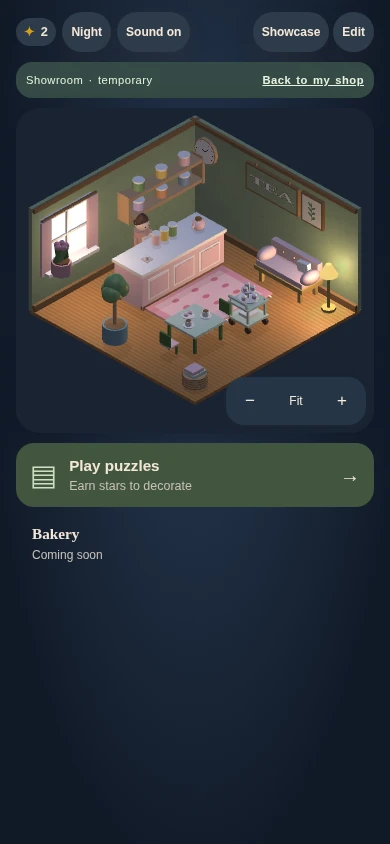
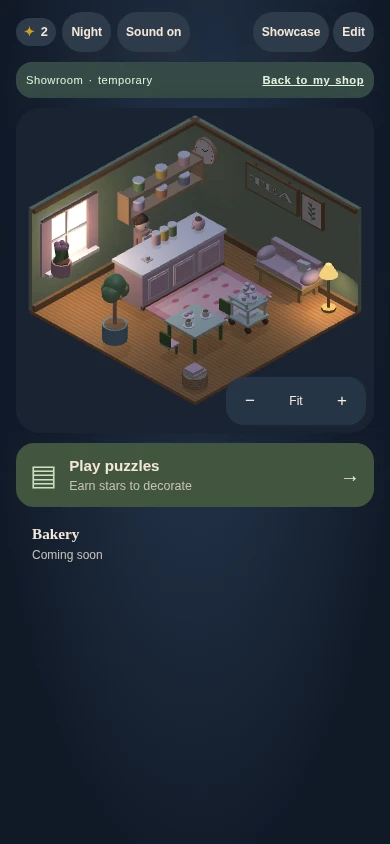
Add cached local night shadows that follow both movable lamps

Changed region(s): [[0.2769, 0.1232, 0.9231, 0.4621], [0.2154, 0.2773, 0.2462, 0.3081]]

diff --git a/src/shop/diorama.ts b/src/shop/diorama.ts
@@ -4,6 +4,7 @@ import { Camera } from "@babylonjs/core/Cameras/camera";
 import { ArcRotateCamera } from "@babylonjs/core/Cameras/arcRotateCamera";
 import { HemisphericLight } from "@babylonjs/core/Lights/hemisphericLight";
 import { DirectionalLight } from "@babylonjs/core/Lights/directionalLight";
+import { SpotLight } from "@babylonjs/core/Lights/spotLight";
 import { PointLight } from "@babylonjs/core/Lights/pointLight";
 import { ShadowGenerator } from "@babylonjs/core/Lights/Shadows/shadowGenerator";
 import { Color3, Color4 } from "@babylonjs/core/Maths/math.color";
@@ -54,8 +55,11 @@ export class Diorama {
   private readonly camera: ArcRotateCamera;
   private readonly hemi: HemisphericLight;
   private readonly sun: DirectionalLight;
-  private readonly lampLights: Record<"lamp" | "lamp:2", PointLight>;
+  private readonly lampLights: Record<"lamp" | "lamp:2", SpotLight>;
   private readonly shadows: ShadowGenerator;
+  private readonly lampShadows: Record<"lamp" | "lamp:2", ShadowGenerator>;
+  private lampShadowsDirty = true;
+  private readonly shadowPreviewKeys = new WeakMap<TransformNode, string>();
   private readonly visuals: ShopVisuals;
   private readonly ring: ReturnType<typeof selectionRing>;
   private readonly sparkTex;
@@ -124,13 +128,27 @@ export class Diorama {
     this.sun.diffuse = new Color3(1, 0.93, 0.78);
 
     this.lampLights = {
-      lamp: new PointLight("lamp-light", Vector3.Zero(), this.scene),
-      "lamp:2": new PointLight("lamp:2-light", Vector3.Zero(), this.scene),
+      lamp: new SpotLight("lamp-light", Vector3.Zero(), Vector3.Down(), Math.PI * 0.8, 1, this.scene),
+      "lamp:2": new SpotLight("lamp:2-light", Vector3.Zero(), Vector3.Down(), Math.PI * 0.8, 1, this.scene),
     };
     for (const light of Object.values(this.lampLights)) {
       light.intensity = 0;
       light.diffuse = new Color3(1, 0.8, 0.55);
-      light.range = 7;
+      light.range = 4;
+      light.shadowMinZ = 0.08;
+      light.shadowMaxZ = 4;
+    }
+    this.lampShadows = {
+      lamp: new ShadowGenerator(512, this.lampLights.lamp),
+      "lamp:2": new ShadowGenerator(512, this.lampLights["lamp:2"]),
+    };
+    for (const shadow of Object.values(this.lampShadows)) {
+      shadow.usePercentageCloserFiltering = true;
+      shadow.filteringQuality = ShadowGenerator.QUALITY_LOW;
+      shadow.setDarkness(0.45);
+      shadow.bias = 0.001;
+      shadow.normalBias = 0.02;
+      shadow.getShadowMap()!.refreshRate = 0; // Cache until a lamp or caster moves.
     }
     this.windowLight = new PointLight("window-light", new Vector3(4.85, 2, 0.65), this.scene);
     this.windowLight.diffuse = Color3.FromHexString("#ffce8c");
@@ -174,6 +192,7 @@ export class Diorama {
 
   setNight(night: boolean): void {
     this.night = night;
+    this.lampShadowsDirty = true;
     this.scene.clearColor = Color4.FromColor3(Color3.FromHexString(night ? "#192333" : C.cream), 1);
     this.scene.ambientColor = night ? new Color3(0.28, 0.33, 0.45) : new Color3(0.55, 0.48, 0.42);
     const sky = this.scene.getMeshByName("sky")?.material;
@@ -256,6 +275,7 @@ export class Diorama {
 
   sync(shop: ShopState, opts: { animate?: UpgradeId; quiet?: boolean } = {}): void {
     this.shop = shop;
+    this.lampShadowsDirty = true;
     applyRoomStyle(this.visuals, shop, this.scene);
     const unique: UpgradeId[] = [];
     for (const id of shop.owned) {
@@ -335,7 +355,13 @@ export class Diorama {
     const casts = !id || (UPGRADE_BY_ID[id].surface === "floor" && root.position.y < 0.1);
     collectMeshes(root).forEach((mesh) => {
       if (mesh.metadata?.steam) return;
-      if (casts) this.shadows.addShadowCaster(mesh);
+      if (casts) {
+        this.shadows.addShadowCaster(mesh);
+        // The light sits inside the shade: lamp meshes must not block their own light.
+        if (!id || kindOf(id) !== "lamp") {
+          for (const shadow of Object.values(this.lampShadows)) shadow.addShadowCaster(mesh);
+        }
+      }
       mesh.receiveShadows = true;
     });
   }
@@ -383,12 +409,20 @@ export class Diorama {
       const lamp = this.visuals.items[id];
       if (!lamp || !isPlaced(this.shop, id)) {
         light.intensity = 0;
+        light.shadowEnabled = false;
         continue;
       }
       const bulb = lamp.getChildMeshes().find(mesh => mesh.name === "lamp-bulb");
-      light.position.copyFrom(bulb ? bulb.getAbsolutePosition() : lamp.position);
+      lamp.computeWorldMatrix(true);
+      bulb?.computeWorldMatrix(true);
+      const position = bulb ? bulb.getAbsolutePosition() : lamp.position;
+      const moved = !light.position.equalsWithEpsilon(position, 0.0001);
+      light.position.copyFrom(position);
+      light.shadowEnabled = this.night;
+      if (this.night && (moved || this.lampShadowsDirty)) this.lampShadows[id].getShadowMap()!.resetRefreshCounter();
       light.intensity = (this.night ? 1.0 : 0.28) + this.warm * 0.18;
     }
+    this.lampShadowsDirty = false;
   }
 
   private updateRing(): void {
@@ -424,6 +458,7 @@ export class Diorama {
 
   private tick(): void {
     const dt = Math.min(0.1, this.engine.getDeltaTime() / 1000);
+    if (this.tweens.length || this.walk) this.lampShadowsDirty = true;
     this.elapsed += dt;
     for (const mesh of this.steam) {
       mesh.setEnabled(!this.reducedMotion.matches);
@@ -675,6 +710,11 @@ export class Diorama {
   }
 
   private previewPlace(id: UpgradeId, root: TransformNode, place: Placement): void {
+    const previewKey = `${place.x}:${place.z}:${place.rot}:${place.wall ?? ""}`;
+    if (this.shadowPreviewKeys.get(root) !== previewKey) {
+      this.lampShadowsDirty = true;
+      this.shadowPreviewKeys.set(root, previewKey);
+    }
     const def = UPGRADE_BY_ID[id];
     if (def.surface === "wall") {
       const along = place.x + def.size.w / 2;

diff --git a/docs/ROADMAP.md b/docs/ROADMAP.md
@@ -245,3 +245,11 @@ Cozy/zoom validation: 30 long and repeated lamp drags pass across three styles a
 The owner reported a detached window-pot shadow on the floor and an oversized clock shadow across the wall. Use a steeper light directed into the room for shorter furniture shadows, soften their contrast/filtering, and exclude wall ornaments and elevated windowsill plants from casting room-wide shadows. Floor-standing plants still cast grounding shadows; moving a plant between floor and sill updates that rule. Apply the same geometry rules in both day and night. Preserve placement, ownership, zoom, and inventory behavior. Review phone screenshots before merging PR #6.
 
 Validation: day/night caster checks, floor-to-sill and sill-to-floor plant transitions, phone/zoom/desktop screenshot review, all 38 level solutions, and production build pass. The clock and window pot no longer project shadows across the wall or floor. Changes remain in PR #6 preview.
+
+## Lamp-driven shadows — next lighting preview
+
+After noticing that lamp movement did not affect shadows, the owner approved continuing the lighting work. At night each placed lamp uses a downward light pool with one 512px shadow map, rather than a six-face omnidirectional map. Both purchased lamps can cast nearby furniture shadows independently. Cache maps while idle and refresh when lamps, furniture, or purchase animations move. Daytime retains the subtle fixed-light shadows. Stored lamps stop lighting and shadow rendering.
+
+Keep clock/wall ornaments and windowsill plants excluded from large projected shadows, and prevent lamp shades from blocking their own bulbs. Preserve continuous touch dragging and inventory behavior. Validate both lamps, map caching, moving other furniture, floor/sill transitions, and physical iPhone performance before release; desktop emulation cannot establish iPhone frame rate. This continues PR #6 preview without merging new lighting into main.
+
+Lamp-shadow validation: browser checks pass for two independent non-cubemap 512px maps, no idle redraws, light and furniture movement invalidation, storage, day/night switching, and retained wall/sill shadow exclusions. Shadow refreshes during drags are limited to snapped grid changes. Production build and all 38 puzzles pass; physical iPhone performance still requires owner review.

diff --git a/docs/ARCHITECTURE.md b/docs/ARCHITECTURE.md
@@ -81,3 +81,5 @@ Diorama owns a bounded zoom multiplier applied to the responsive orthographic sp
 Three non-pickable steam meshes are attached to each eligible teapot. Synchronization caches them for the existing render loop; there is no extra timer or particle system. Reduced-motion preferences hide steam. Daytime illumination is reduced to preserve material colours; lamp lighting remains independent of input handling.
 
 Shadow casting follows placement: floor-level furniture and the shopkeeper cast short shadows from a steep directional light. Wall decorations and elevated window plants receive lighting but do not cast room-wide shadows. Rebuilding a moved plant recalculates its eligibility. Steam never casts shadows.
+
+Night lamps use downward SpotLights with independent 512px PCF shadow maps and a four-unit range. This avoids six cubemap renders per point light. Their maps use render-once caching, invalidated by light positions, layout/style/storage changes, drag previews, and purchase animation. Daytime disables lamp shadows; absent/stored lamps disable shadow rendering and illumination. Lamp meshes are excluded from lamp shadow maps to prevent the shade enclosing its own bulb. Existing wall/sill/steam caster exclusions still apply.
